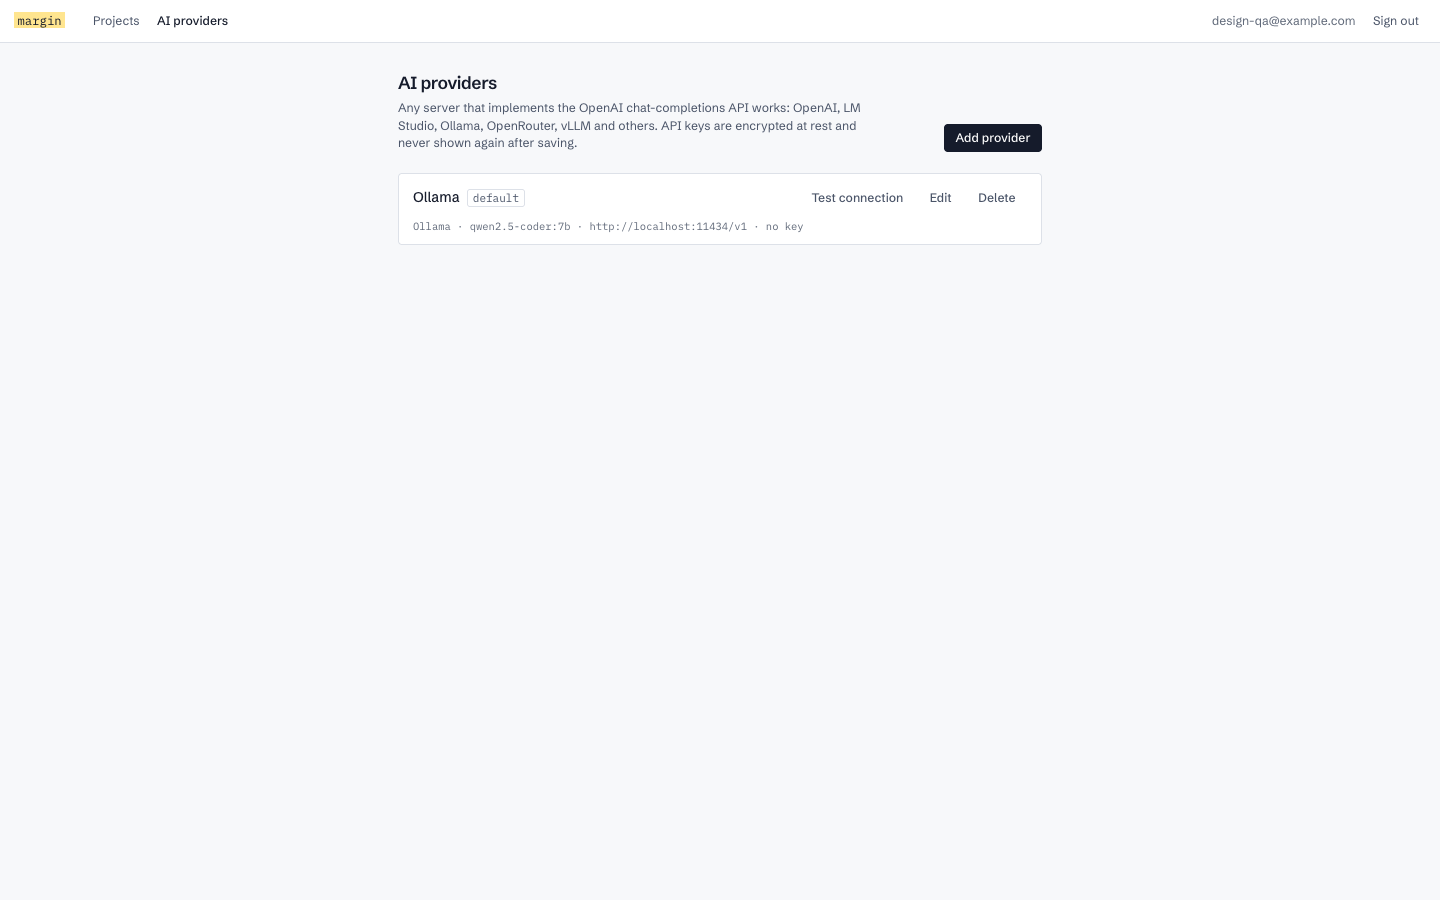
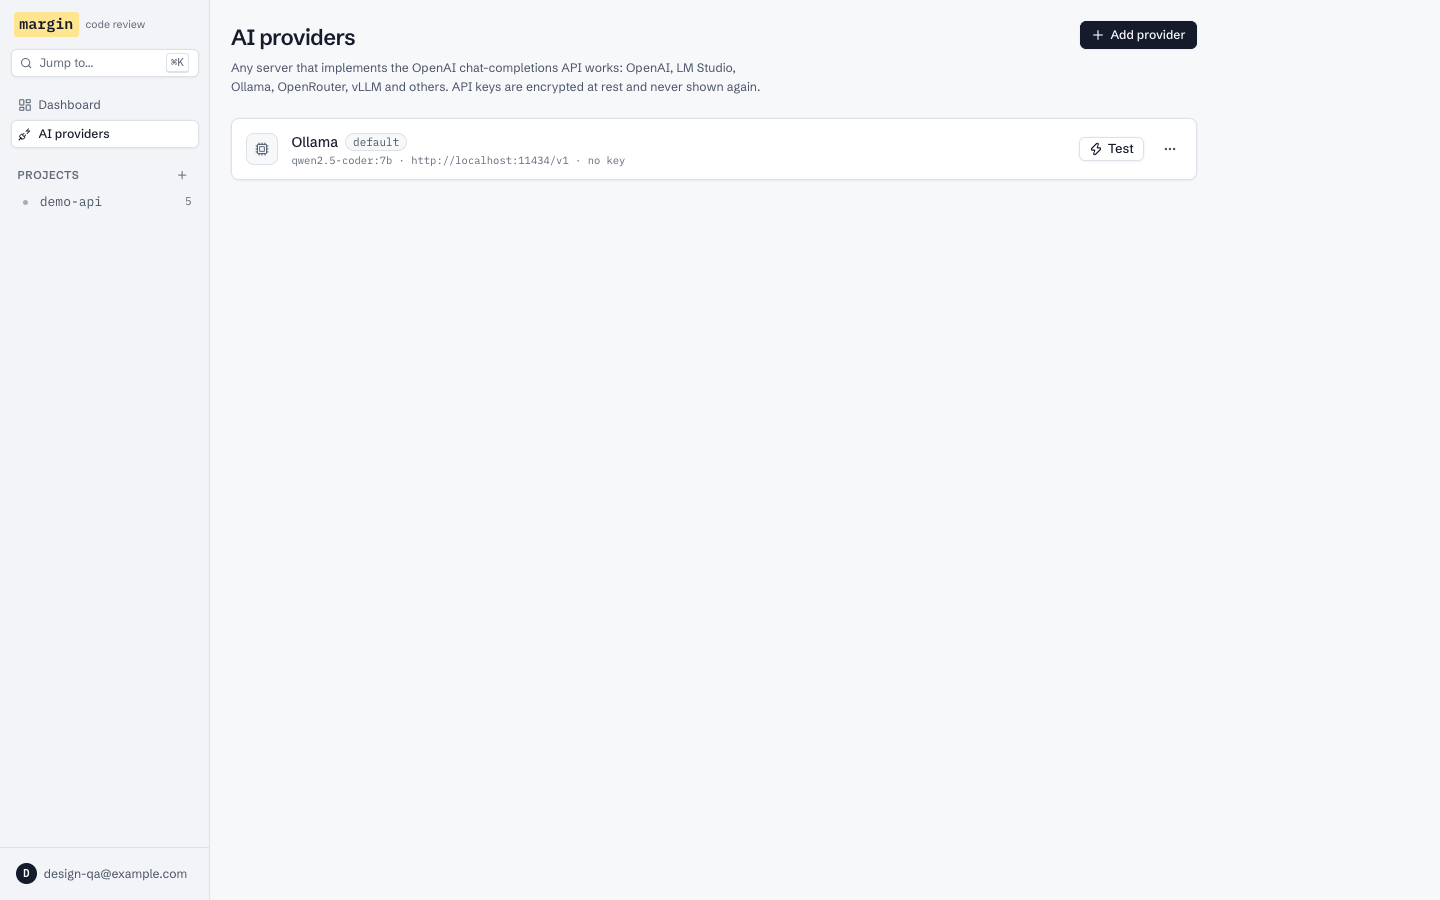
docs: update walkthrough and screenshots for the app shell

diff --git a/README.md b/README.md
@@ -19,7 +19,7 @@ with OpenAI, LM Studio, Ollama, OpenRouter and other compatible servers.
 | ZIP ingestion | Up to 20 MB. Checked by magic bytes, parsed in memory and never written to disk or executed. Zip Slip and zip bombs are rejected. `node_modules`, `.git`, build output, binaries, symlinks and likely secret files (`.env`, keys, `.npmrc`, ...) are skipped, and the UI reports each skipped file with the reason. |
 | Code explorer | File tree, name filter, full-text content search, syntax highlighting (Shiki, grammars loaded on demand), line numbers. Contents are fetched one file at a time. |
 | Reviews | Security, performance and code-quality modes over **this file**, **selected files** (up to 50) or the **whole project**, with the scope chosen explicitly. Model output is validated with Zod and retried once with the errors fed back. Findings that cite files the model wasn't shown are discarded. |
-| Review UX | Findings grouped by file and pinned under the code they cite (diff reviews redraw the diff), severity filter, `j`/`k` navigation. Each `file:line` opens the explorer with the line highlighted. The Coverage section lists files that didn't fit the context budget. |
+| Review UX | Findings grouped by file and pinned under the code they cite (diff reviews redraw the diff), severity filter, `j`/`k` navigation, ⌘K to jump to any project, page or review, a dashboard charting findings per review. Each `file:line` opens the explorer with the line highlighted. The Coverage section lists files that didn't fit the context budget. |
 | History | Paginated, searchable (summary, finding titles, file paths) and filterable by type, per project and across projects. |
 | Chat | Per-project chat sessions. Keyword retrieval runs in Postgres, only the best-matching files are sent under a character budget, and each answer lists the files it was based on. |
 | Diff review (bonus) | Compare a file with another file or with edited text. Only the changed lines, with a little context, are sent to the model. |

diff --git a/DEMO.md b/DEMO.md
@@ -32,7 +32,7 @@ with any email and a password of 8+ characters. You land on the empty dashboard.
 
 ## 3. Upload the ZIP
 
-**Upload source (.zip)** → choose `docs/demo/demo-api.zip`. The result reads *Stored 8 files ·
+Drag `docs/demo/demo-api.zip` onto the upload area (or click it and choose the file). The result reads *Stored 8 files ·
 skipped 8*. Expand **Show skipped files** to see each file refused and why. The `demo-api-main/`
 wrapper folder is stripped automatically.
 
@@ -44,7 +44,7 @@ search file contents for `jsonwebtoken` and press Enter.
 
 ## 5. Configure an AI provider
 
-**AI providers → Add provider → Ollama** (or any preset) → **Add provider** → **Test connection**.
+**AI providers → Add provider → Ollama** (or any preset) → **Add provider** → **Test**.
 You should see "Connected in Ns". Afterwards the provider shows `no key` or `key saved`, never the key
 itself.
 
@@ -88,7 +88,7 @@ redraws the diff with the finding pinned under the changed line (pasted text is 
 **Edited text** review shows the findings without the diff). Alternatively choose
 **Edited text**, click **Start from auth.js** and edit it by hand.
 
-**Architecture analysis:** **Overview** tab → **Analyse architecture**. Expect components
+**Architecture analysis:** **Overview** tab → the **Architecture analysis** card. Expect components
 (server/auth/db), data flow, dependencies (`express`, `pg`, `jsonwebtoken`, taken from `package.json`)
 and concerns.
 
